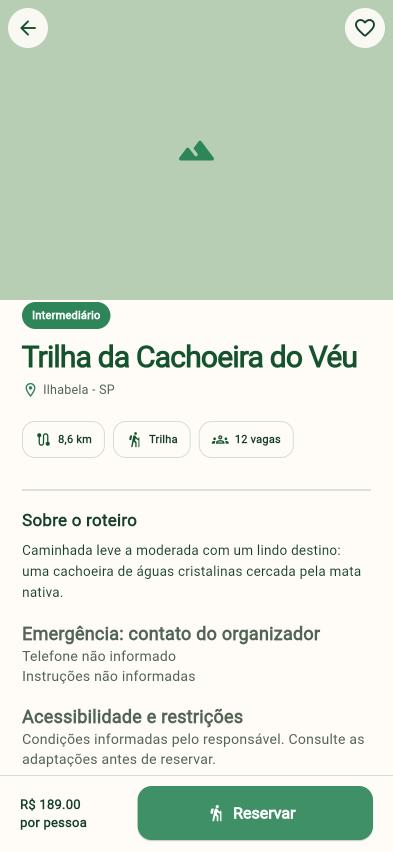
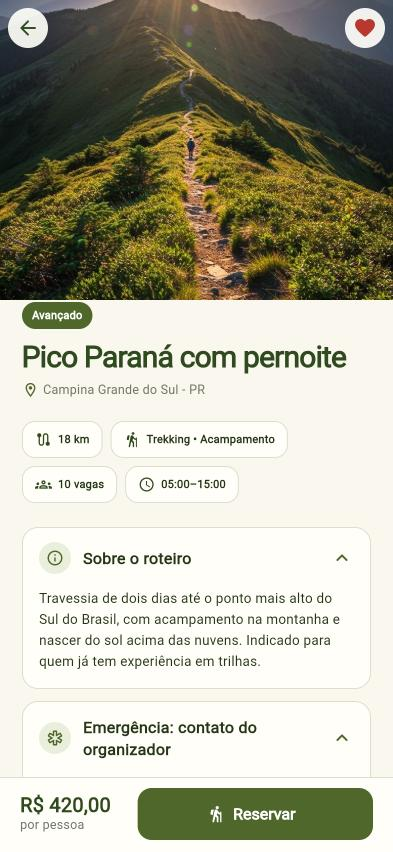
feat: prints da landing page com os dados de demonstração
Troca os prints da base de testes ("TESTE V1", telefone não informado)
por prints do app com o banco de demonstração: tela Explorar da Mariana
com "Melhores avaliados" e a página do roteiro Pico Paraná com pernoite.
O print da tela Explorar passa de PNG para JPG.

diff --git a/landing/index.html b/landing/index.html
@@ -271,7 +271,7 @@
             <div><strong>Favoritos</strong><span>Salve para depois</span></div>
           </div>
           <div class="phone">
-            <img src="img/app-explorar.png" width="393" height="853" alt="Tela Explorar do RotaFácil, com a busca de roteiros e o carrossel de atividades próximas mostrando uma cachoeira">
+            <img src="img/app-explorar.jpg" width="393" height="852" alt="Tela Explorar do RotaFácil, com a busca de roteiros, o convite para usar a localização e o carrossel Melhores avaliados mostrando um rafting">
           </div>
         </div>
       </div>
@@ -329,7 +329,7 @@
           </div>
           <div class="stage reveal">
             <div class="phone">
-              <img src="img/app-roteiro.jpg" width="393" height="852" loading="lazy" alt="Página de um roteiro no RotaFácil, com dificuldade, distância, vagas, descrição, preço por pessoa e o botão Reservar">
+              <img src="img/app-roteiro.jpg" width="393" height="852" loading="lazy" alt="Página do roteiro Pico Paraná com pernoite no RotaFácil, com foto, dificuldade, distância, vagas, horário, descrição, preço por pessoa e o botão Reservar">
             </div>
           </div>
           <div class="callouts">
